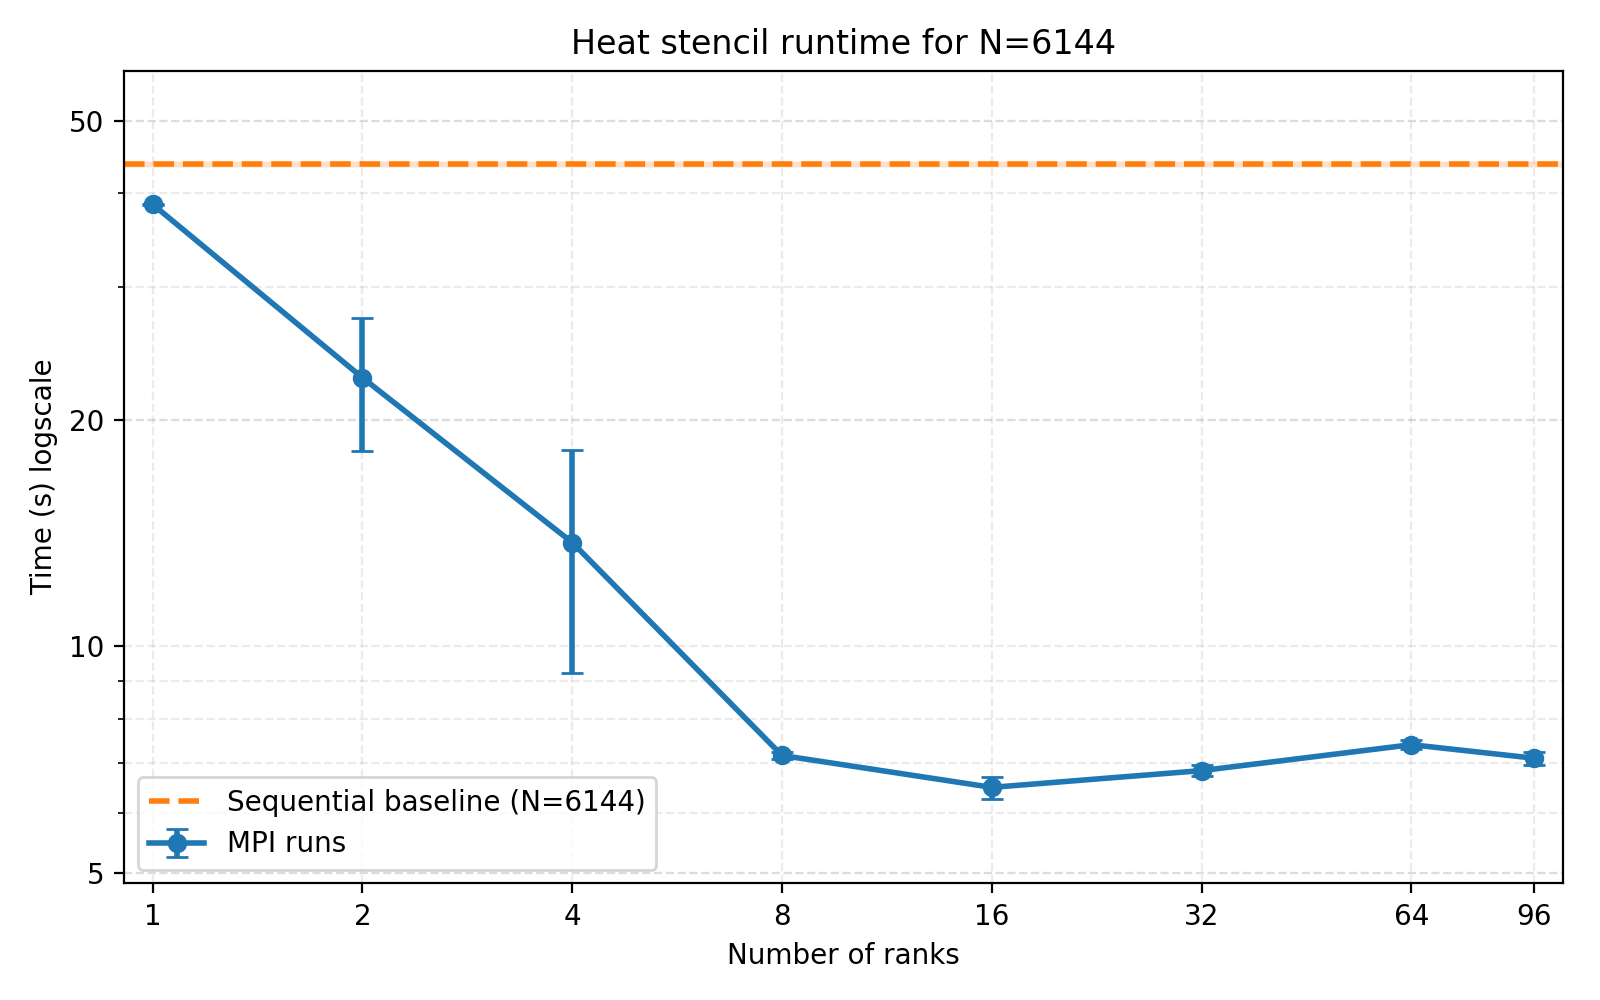
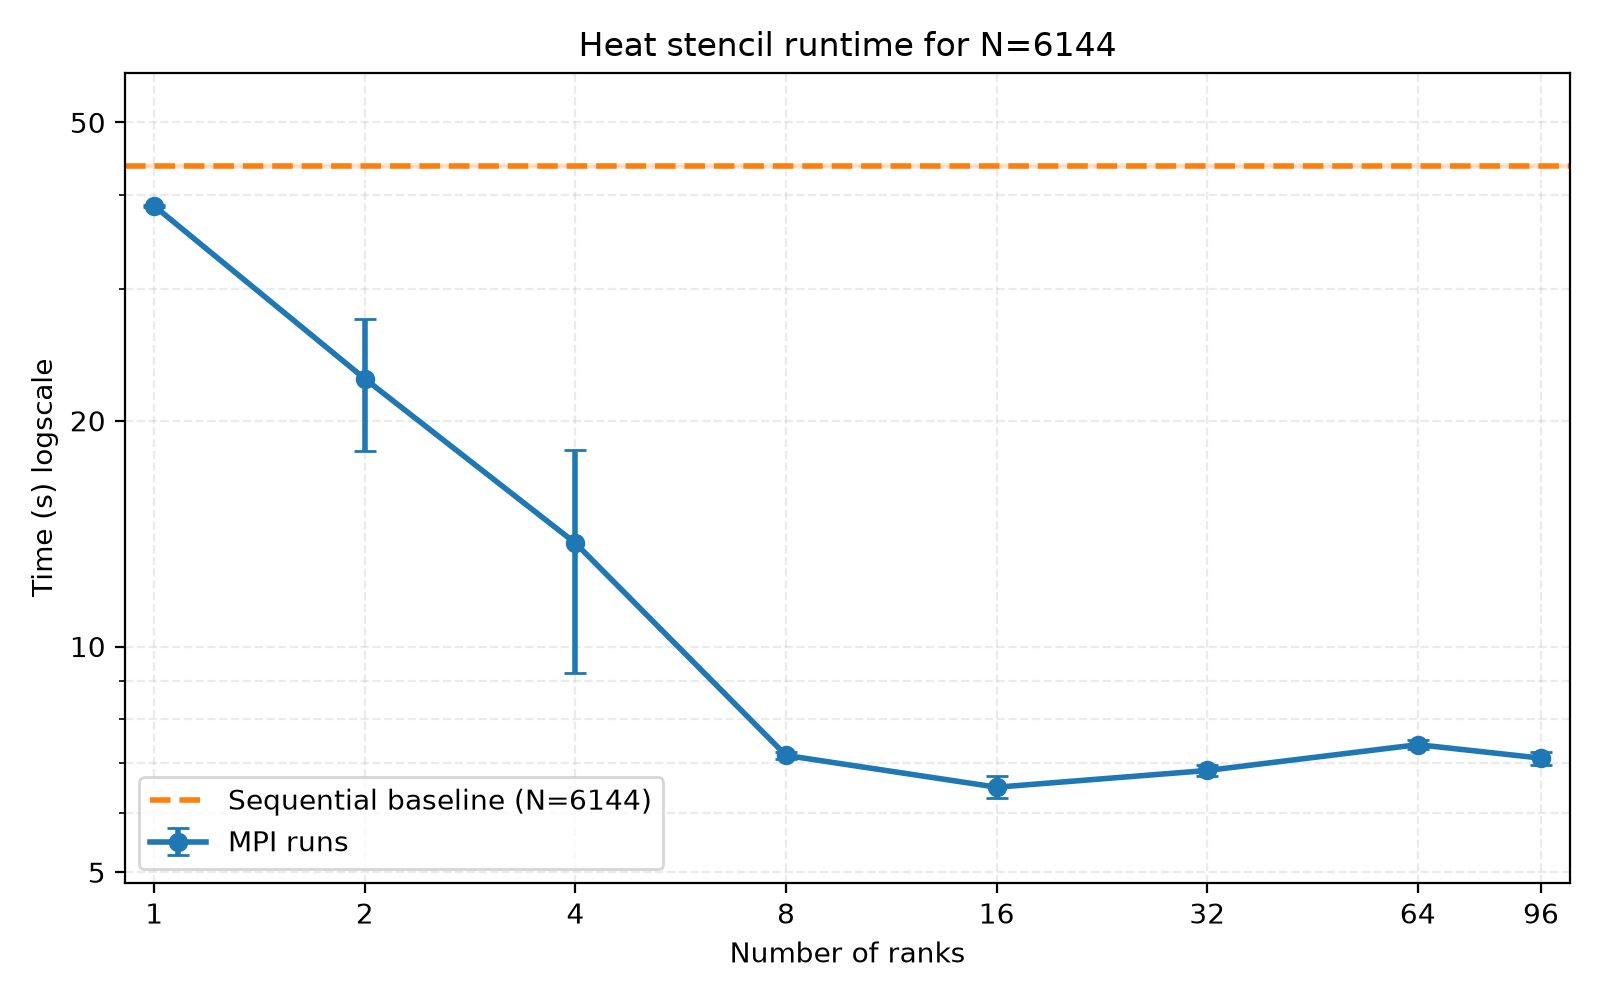
odin: report

diff --git a/proseminar/02/odin/Exercise2/visualize_benchmark_heat.py b/proseminar/02/odin/Exercise2/visualize_benchmark_heat.py
@@ -58,7 +58,7 @@ def apply_log_axes(ax, x_values=None):
         xticks = [2**k for k in range(0, int(np.floor(np.log2(xmax))) + 1)]
         if xmax not in xticks:
             xticks.append(int(xmax))
-        ax.set_xscale("log", basex=2)
+        ax.set_xscale("log", base=2)
         ax.set_xticks(xticks)
         ax.set_xticklabels([str(t) for t in xticks])
         ax.xaxis.set_minor_locator(NullLocator())
@@ -208,6 +208,35 @@ def make_seq_vs_96_plot(data, output_path: Path):
     plt.close(fig)
 
 
+def make_speedup_table(data, target_n, output_path: Path):
+    seq_times = [t for (name, _, n), times in data.items() if name == "heat_seq" and n == target_n for t in times]
+    if not seq_times:
+        raise ValueError(f"No sequential timings found for N={target_n} in the CSV")
+    seq = summarize_runs(seq_times)
+
+    mpi_runs = {
+        ranks: summarize_runs(times)
+        for (name, ranks, n), times in data.items()
+        if name == "heat_mpi" and n == target_n
+    }
+    if not mpi_runs:
+        raise ValueError(f"No MPI timings found for N={target_n} in the CSV")
+
+    lines = [
+        "| Ranks | Mean time (s) | Std (s) | Runs | Speedup |",
+        "|------:|--------------:|--------:|-----:|--------:|",
+        f"| sequential | {seq['mean']:.3f} | {seq['std']:.3f} | {seq['count']} | 1.00 |",
+    ]
+    for ranks in sorted(mpi_runs):
+        run = mpi_runs[ranks]
+        speedup = seq["mean"] / run["mean"]
+        lines.append(f"| {ranks} | {run['mean']:.3f} | {run['std']:.3f} | {run['count']} | {speedup:.2f} |")
+
+    table = f"### Heat stencil speedup for N={target_n}\n\n" + "\n".join(lines) + "\n"
+    output_path.write_text(table, encoding="utf-8")
+    return table
+
+
 def main():
     parser = argparse.ArgumentParser(description="Visualize the heat stencil benchmark CSV results")
     parser.add_argument("--csv", type=Path, default=Path(__file__).with_name("result.csv"), help="Path to the benchmark CSV")
@@ -228,10 +257,14 @@ def main():
 
     make_rank_vs_time_plot(data, args.target_n, output_dir / f"heat_runtime_vs_ranks_N{args.target_n}.png")
     make_seq_vs_96_plot(data, output_dir / "heat_runtime_seq_vs_96ranks.png")
+    table = make_speedup_table(data, args.target_n, output_dir / f"heat_speedup_N{args.target_n}.md")
 
     print(f"Saved plots to {output_dir}")
     print(f"- {output_dir / f'heat_runtime_vs_ranks_N{args.target_n}.png'}")
     print(f"- {output_dir / 'heat_runtime_seq_vs_96ranks.png'}")
+    print(f"- {output_dir / f'heat_speedup_N{args.target_n}.md'}")
+    print()
+    print(table)
 
 
 if __name__ == "__main__":

diff --git a/proseminar/02/odin/Exercise2/heat_stencil_1D/heat_stencil_1D_mpi.c b/proseminar/02/odin/Exercise2/heat_stencil_1D/heat_stencil_1D_mpi.c
@@ -240,6 +240,9 @@ int main(int argc, char **argv) {
       }
     }
   }
+  
+  MPI_Gatherv(local_A, num_elements, MPI_DOUBLE, A, 
+        sendcounts, displs, MPI_DOUBLE, 0, MPI_COMM_WORLD);
 
   releaseVector(local_B);
   releaseVector(local_A);

diff --git a/proseminar/02/odin/report.md b/proseminar/02/odin/report.md
@@ -38,3 +38,43 @@ The python scripts as well as the parsing for the csv file in the slurm scripts 
 
 
 # Exercise 2
+
+## Parallelisation
+
+The main idea is:
+- the root rank initialises the main vector 
+- splits the array in equal chunks for each array
+- sends the chunks to each rank with scatter(v since the chunks might not be equal in size) 
+- each timestep each rank requests the left and right neighbor cell and sends its left and right boundary cell (both non blocking)
+- then does the computation for the inner cells
+- after the inner cells it waits for the send and receive for the boundary to be finished and does the boundary computation
+- every 10000 timesteps it prints the heat distribution so the root rank needs to gather all the parts and print it, this is also done at the very end
+  
+### Some Details
+
+- I used MPI_scatterv/gatherv, This is for the not so unlikely case that N is not divisible by number of ranks. for the loadbalancing I added 1 to every rank that is before the remainder
+- the first and last rank can't send their left and right boundary so I used to have an if else block for that, the problem was, that if the last rank was also the first rank I ran into some problems. The Goods (Claude Opus 5.5 that is) suggested that i use MPI_PROC_NULL instead, if the rank is the first and/or the last rank. This basically sends nothing and is done immedeately and helped to reduce the if else only after the inner computation
+- Because MPI_Isend semantics, the boundry values shouldn't be used so the second to last cell also can only be computed after the Wait
+- The heat source could also be on one of the 4 boundary cells, so this also has to be checked and set. One could actually save one send and receive that way, but this was a bit too annoying for probably little payoff
+
+## Results
+### N=6144 across different ranks
+It can be seen, that even for 1 ranks my MPI implementation is faster than the sequential version, which is really interesting. Then th time decreases dramatically until 8 ranks, where it begins to kind of plateou. For 16 ranks it is the fastest and it seems to kind of go up and down further on. I assume the biggest bottleneck is the MPI_Gatherv every 10000 timesteps for printing. If there were a way to do this better asynchronously I assume there would be an even better speedup.
+![](./Exercise2/heat_runtime_vs_ranks_N6144.png)
+| Ranks | Mean time (s) | Std (s) | Runs | Speedup |
+|------:|--------------:|--------:|-----:|--------:|
+| sequential | 43.788 | 0.244 | 5 | 1.00 |
+| 1 | 38.684 | 0.074 | 5 | 1.13 |
+| 2 | 22.754 | 4.554 | 5 | 1.92 |
+| 4 | 13.738 | 4.521 | 5 | 3.19 |
+| 8 | 7.158 | 0.070 | 5 | 6.12 |
+| 16 | 6.492 | 0.218 | 5 | 6.74 |
+| 32 | 6.834 | 0.114 | 5 | 6.41 |
+| 64 | 7.398 | 0.100 | 5 | 5.92 |
+| 96 | 7.098 | 0.143 | 5 | 6.17 |
+
+
+
+### Scaling across 96 ranks and increasing N
+It shows that the mpi implementation with 96 ranks clearly scales much better than the mpi implementation. The sequential version is faster till about N=1024 which is to be expected. Here every rank only has 10-11 cells and the communication overhead clearly outweighs the speedup from parallelization. For 2N=1536 they are pretty similar in execution time. After that the sequential implementation takes much longer.
+![](./Exercise2/heat_runtime_seq_vs_96ranks.png)

diff --git a/proseminar/02/odin/Exercise2/heat_speedup_N6144.md b/proseminar/02/odin/Exercise2/heat_speedup_N6144.md
@@ -1,0 +1,13 @@
+### Heat stencil speedup for N=6144
+
+| Ranks | Mean time (s) | Std (s) | Runs | Speedup |
+|------:|--------------:|--------:|-----:|--------:|
+| sequential | 43.788 | 0.244 | 5 | 1.00 |
+| 1 | 38.684 | 0.074 | 5 | 1.13 |
+| 2 | 22.754 | 4.554 | 5 | 1.92 |
+| 4 | 13.738 | 4.521 | 5 | 3.19 |
+| 8 | 7.158 | 0.070 | 5 | 6.12 |
+| 16 | 6.492 | 0.218 | 5 | 6.74 |
+| 32 | 6.834 | 0.114 | 5 | 6.41 |
+| 64 | 7.398 | 0.100 | 5 | 5.92 |
+| 96 | 7.098 | 0.143 | 5 | 6.17 |
